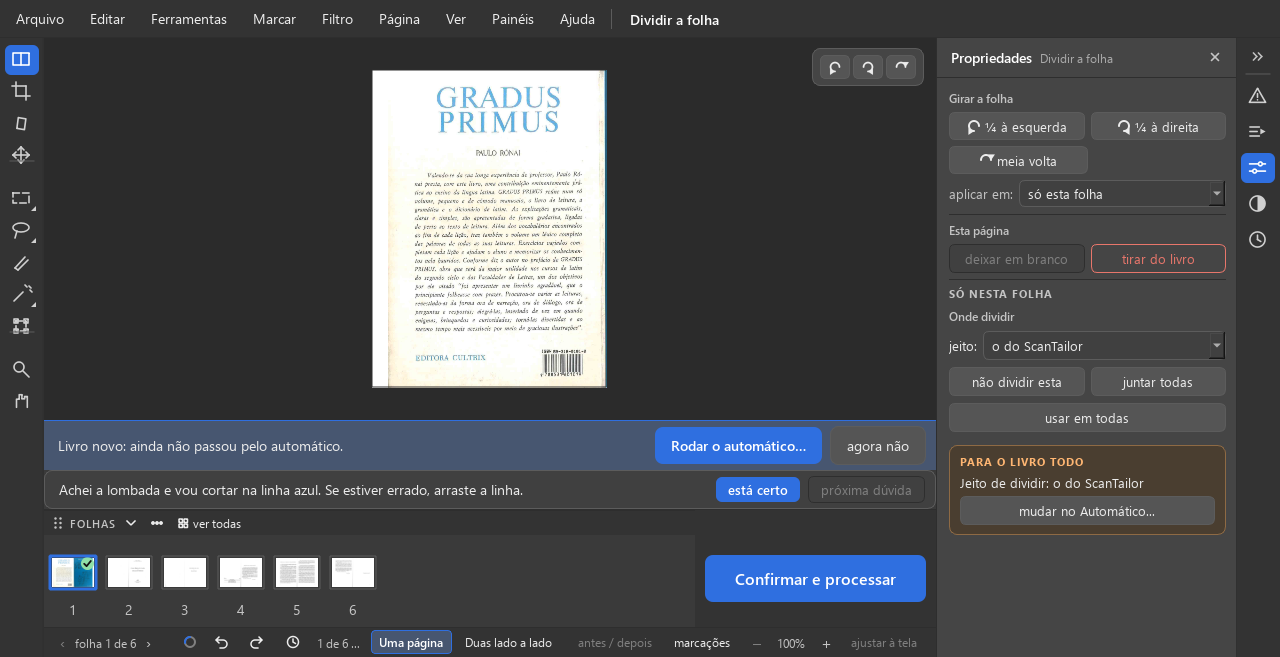
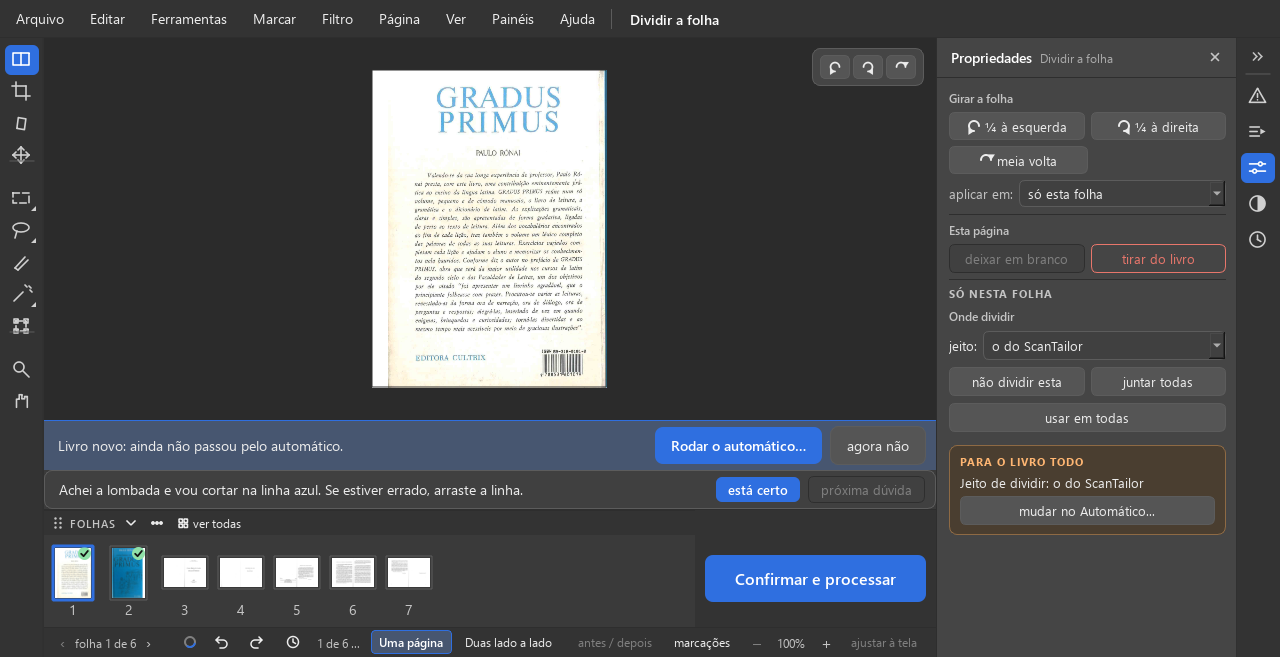
D-601: prints da tira do Dividir e ONDE-PAREI com o acréscimo de 02/11

Changed region(s): [[0.0312, 0.8219, 0.125, 0.9132], [0.1875, 0.8524, 0.3438, 0.9132]]

diff --git a/relatorios/dividir-metade/prints_d601.py b/relatorios/dividir-metade/prints_d601.py
@@ -58,7 +58,7 @@ def main() -> None:
     app = QApplication.instance() or QApplication([])
     from ui.janela_principal import JanelaPrincipal
     from ui.tela_conferir import ABA_CORTE
-    from ui.widgets.paginas_rolando import DUAS
+    from ui.widgets.paginas_rolando import DUAS, UMA
 
     def assentar(vezes: int = 30) -> None:
         for _ in range(vezes):
@@ -88,7 +88,8 @@ def main() -> None:
         pagina = janela.projeto.paginas[tela.indice_pagina]
         print(f"{QUANDO}-{nome}: folha {tela.indice_folha + 1}, página {tela.indice_pagina + 1} "
               f"({pagina.metade}), rótulo '{tela.rotulo_da_pagina.text()}', "
-              f"linha à vista={tela.visualizadores[ABA_CORTE].corte_visivel}")
+              f"linha à vista={tela.visualizadores[ABA_CORTE].corte_visivel}, "
+              f"miniaturas na tira={len(tela.tira._miniaturas)}")
 
     tela.escolher_ferramenta("dividir")
     tela._ir_para(0)
@@ -104,6 +105,11 @@ def main() -> None:
     else:                                     # antes: o botão ficava apagado no Dividir
         tela.definir_mostrar(DUAS)
     foto("3-duas-lado-a-lado")
+    # acréscimo de 02/11: a tira do Dividir; volta ao "Uma página" e clica na
+    # miniatura da direita da folha 1 (a capa); antes, o quadro 2 era a folha 2
+    tela.definir_mostrar(UMA)
+    tela.tira.selecionada.emit(1)
+    foto("4-clique-na-miniatura-2")
     if janela.aviso_do_fundo is not None:
         janela.aviso_do_fundo.done(0)
     janela.close()

diff --git a/relatorios/dividir-metade/ONDE-PAREI.md b/relatorios/dividir-metade/ONDE-PAREI.md
@@ -16,6 +16,14 @@ Só `ui/` (e os testes). Outro construtor mexe ao mesmo tempo na faixa de baixo 
   vez, as setas andam pelas páginas); com "Duas lado a lado", a folha inteira com a linha azul para arrastar.**
   Muda a D-007 só dentro do Dividir. Prova: Gradus Primus folha 1 dividida → "Uma página" mostra só a contracapa;
   seta → capa; "Duas lado a lado" → folha inteira com a linha.
+- **D-601, acréscimo de 02/11/2026 (pela gerente)** — Samuel: "quando cortar as paginas lá embaxio que foram
+  cortadas vão aparecer como uma só e nas paginas que não foram cortadas ainda vão aparecer duplas ainda, mas para
+  ver as paginas que foram cortadas vão ter que apertar uma folha só ali embaixo no aplicativo." · gerente: "Na tira
+  de baixo do Dividir: a folha 1 foi cortada, então na tira ela aparece como duas miniaturas separadas (a contracapa
+  e a capa); as folhas 2 a 70 ainda não foram cortadas, então continuam como uma miniatura dupla cada; na página
+  grande de cima, para ver só a metade de uma folha cortada, você aperta "Uma página" no rodapé. É isso?" → "isso".
+  **Tira de baixo do Dividir: folha dividida = duas miniaturas (uma por metade); não dividida = uma miniatura da
+  folha inteira; clicar numa miniatura de metade vai para aquela página.**
 - **D-007 (26/10)** — "quando eu escolher para começar no automatico e dividir as folhas o livro tem que aparecer em
   uma pagina por vez para mim." Fora do Dividir continua igual (uma página por vez). Dentro do Dividir muda pela
   D-601.
@@ -39,11 +47,13 @@ Só `ui/` (e os testes). Outro construtor mexe ao mesmo tempo na faixa de baixo 
 
 ## Andamento
 
-- [ ] Mudança em `ui/tela_conferir.py`
-- [ ] Prova (`tests/test_decisoes_dividir_metade.py`) + reversão no `110976f`
-- [ ] Testes antigos que mediam a linha com "Uma página" (comportamento que a D-601 trocou)
-- [ ] Prints antes/depois (cópia do Gradus Primus em `_tmp/`)
-- [ ] Testes no PC, push, GitHub
+- [x] Mudança em `ui/tela_conferir.py` (`cd36c4d`)
+- [x] Prova (`tests/test_decisoes_dividir_metade.py`) + reversão no `110976f` (falha)
+- [x] Testes antigos que mediam a linha com "Uma página" (comportamento que a D-601 trocou) (`06c0150`)
+- [x] Prints antes/depois (cópia do Gradus Primus em `_tmp/`)
+- [x] GitHub da 1ª parte: rodada 41549443337 verde (3398 passaram, 0 falharam; botões 369 ações, 0 falhas)
+- [x] Acréscimo da tira (`3b098c9`): prova (2 testes) + reversão no `110976f` (falha) + prints `*-4-*`
+- [ ] Testes no PC e GitHub da versão final
 
 ## O que mudou (só `ui/tela_conferir.py`)
 
@@ -59,6 +69,12 @@ Só `ui/` (e os testes). Outro construtor mexe ao mesmo tempo na faixa de baixo 
   páginas.", que saiu por ter ficado errado). O "antes / depois" continua apagado no Dividir.
 - `definir_mostrar`: no Dividir, trocar entre os dois redesenha a tela (a imagem e as setas).
 - Funções novas: `_dividir_por_paginas`, `_passos_do_dividir`, `_passo_do_dividir_atual`, `_metade_no_dividir`.
+- Tira do Dividir (acréscimo): `_montar_tira` monta um quadro por passo das setas (a folha dividida vira duas
+  miniaturas, a metade de cada página; a não dividida, uma, a folha inteira); `_atualizar_tira_do_dividir` (novo)
+  marca o "!" e o tique da folha nos quadros dela e seleciona o quadro da página da vez; `_ir_para_o_quadro_da_tira`
+  (novo) faz o clique e o duplo clique numa miniatura levar àquela página; `_cortes_da_tira_do_dividir` (novo).
+- `ui/widgets/tira_miniaturas.py`: `definir_cortes` (novo) — mover a linha redesenha só as miniaturas daquela folha,
+  da imagem guardada, sem ler o PDF de novo (como o `definir_giros`).
 - Não mexi em `_atualizar_faixa` nem `_texto_tranquilo` (são do outro construtor).
 
 ## Escolhas pelo jeito que o código já tem (anotadas)
@@ -66,8 +82,11 @@ Só `ui/` (e os testes). Outro construtor mexe ao mesmo tempo na faixa de baixo 
 1. **Logo depois de "dividir esta" com "Uma página": aparece a página da esquerda.** O código já punha a página da
    vez na primeira página da folha (`lista_de_paginas_mudou`, etapa 4) e ir a uma folha pela tira também vai à
    primeira página dela (`_ir_para`). No Gradus: a contracapa (print `depois-1`).
-2. **A tira de baixo continua "FOLHAS"**, uma miniatura por folha; clicar numa folha vai à página da esquerda dela.
-   É o que o Dividir já fazia (o Dividir confere a folha: `trabalha_com_folhas`).
+2. ~~A tira de baixo continua uma miniatura por folha~~ — **trocado pelo acréscimo de 02/11**: folha dividida = duas
+   miniaturas, não dividida = uma. O título "FOLHAS" do cabeçalho da tira ficou como estava. Os números embaixo das
+   miniaturas são os da posição na tira (os mesmos números das páginas nas outras ferramentas: a folha 2 do Gradus,
+   depois da folha 1 dividida, aparece como "3"). O "!" e o tique de "conferida" são da folha (aparecem nas duas
+   metades dela); a marca de "tirada do livro" é a da página.
 3. **O rótulo continua "folha 1 de 70"** nas duas metades (o Dividir conta folhas, etapa 7 da obra: "no Dividir se
    confere a FOLHA, e o contador conta folhas"). Ver a pergunta 2.
 4. **Barra de espaço ("está certo" e avança)** chama a mesma ação das setas: confere a folha e vai à próxima página
@@ -87,8 +106,15 @@ Só `ui/` (e os testes). Outro construtor mexe ao mesmo tempo na faixa de baixo 
    Pergunta: "No Dividir com "Uma página", a faixa diz "arraste a linha", mas a linha só aparece no "Duas lado a
    lado". Posso trocar a frase, só nesse caso, por: "Achei a lombada. Para mudar onde corta, escolha "Duas lado a
    lado" e arraste a linha."?" (sugestão: sim). Não mexi: a faixa é do outro construtor (`_texto_tranquilo`).
+   **(gerente, 02/11: ainda sem resposta; deixar como está.)**
 2. **"folha 1 de 70" nas duas metades.** Na "Uma página", a esquerda e a direita da folha 1 mostram as duas "folha 1
    de 70" embaixo (a seta anda, o número não). Print: `depois-1` e `depois-2`.
    Pergunta: "No Dividir com "Uma página", embaixo continua "folha 1 de 70" nas duas páginas da folha. Fica assim
    (o Dividir conta folhas), ou quer que diga a página, por exemplo "folha 1 de 70 · página 2"?" (sugestão: fica
-   assim).
+   assim). **(gerente, 02/11: ainda sem resposta; deixar como está.)**
+3. **Os números embaixo das miniaturas do Dividir.** Com a folha 1 dividida, a tira mostra 1 (contracapa), 2 (capa),
+   3 (folha 2), 4 (folha 3)... e o rótulo do rodapé diz "folha 2 de 70" quando a miniatura "3" está escolhida.
+   Print: `relatorios/dividir-metade/depois-4-clique-na-miniatura-2.png`.
+   Pergunta: "Na tira do Dividir, depois de dividir a folha 1, as miniaturas ficam numeradas 1, 2, 3... (a folha 2
+   vira o número 3, como nas outras ferramentas, que contam páginas). Fica assim?" (sugestão: fica assim; anda junto
+   com a resposta da pergunta 2).
